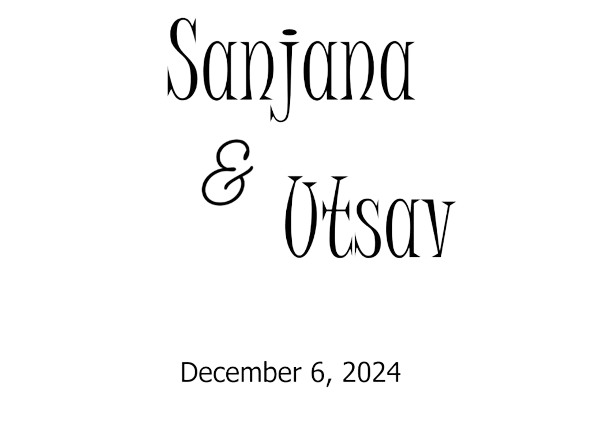
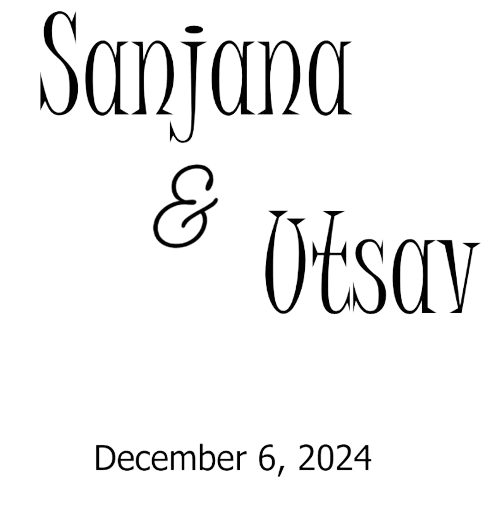
Some changes on homepage

Changed region(s): [[0.0609, 0.0, 0.7302, 0.4929], [0.4564, 0.4005, 0.9736, 0.6469], [0.1826, 0.8318, 0.7606, 0.955]]

diff --git a/index.html b/index.html
@@ -683,8 +683,9 @@
     <section id="testimonials" class="testimonials section-bg">
       <div class="container" data-aos="fade-up">
 
+        <div class="carousel-item" style="background-image: url(assets/img/homepage_name.jpg)"></div>
         <div class="section-header">
-          <img src="assets/img/homepage_name.jpg" alt="" width="800">
+          <img src="assets/img/homepage_name.jpg" alt="" width="auto">
           <p></p>
         </div>
 
